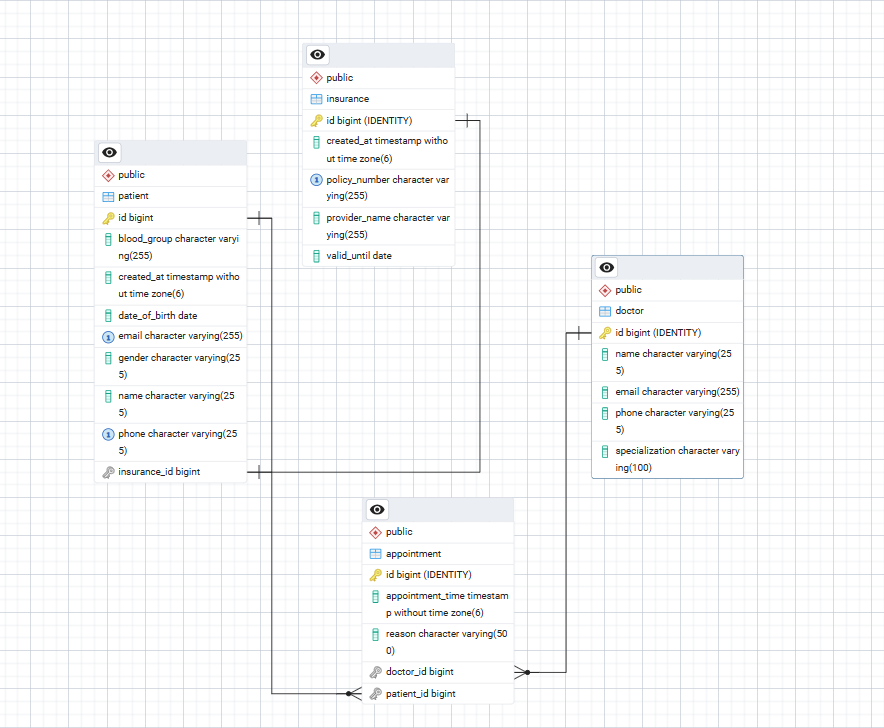
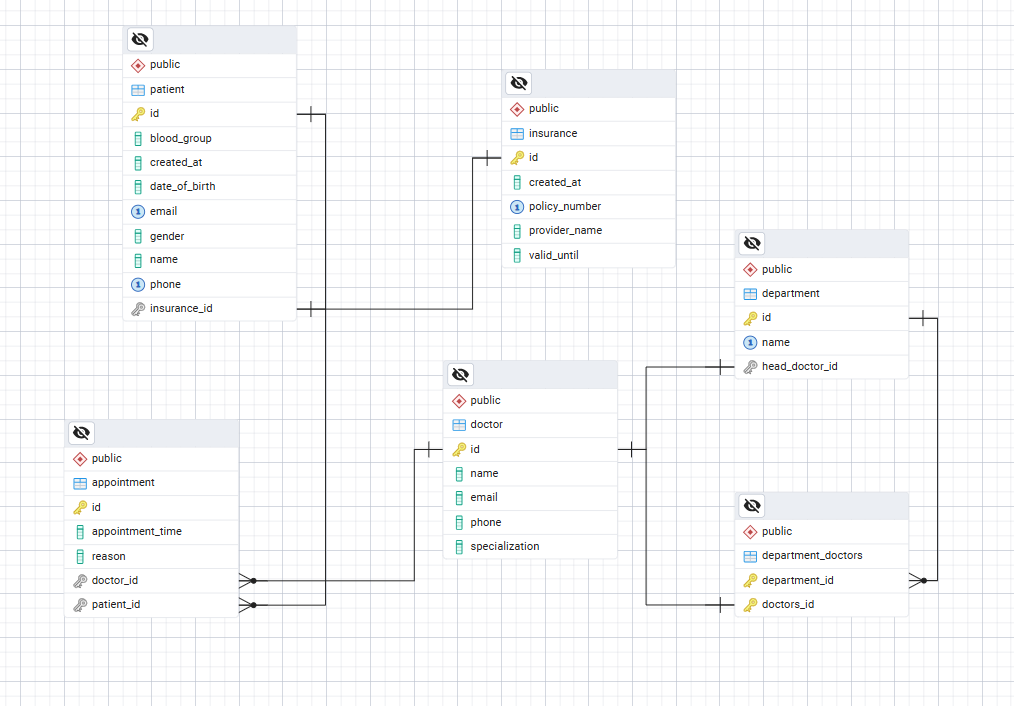
created controllers for doing basic operations

diff --git a/src/main/java/com/rabibanik/hospitalManagementSystem/service/AppointmentService.java b/src/main/java/com/rabibanik/hospitalManagementSystem/service/AppointmentService.java
@@ -1,0 +1,41 @@
+package com.rabibanik.hospitalManagementSystem.service;
+
+import com.rabibanik.hospitalManagementSystem.entity.Appointment;
+import com.rabibanik.hospitalManagementSystem.entity.Doctor;
+import com.rabibanik.hospitalManagementSystem.entity.Patient;
+import com.rabibanik.hospitalManagementSystem.repository.AppointmentRepo;
+import com.rabibanik.hospitalManagementSystem.repository.DoctorRepo;
+import com.rabibanik.hospitalManagementSystem.repository.PatientRepo;
+import org.springframework.beans.factory.annotation.Autowired;
+import org.springframework.stereotype.Service;
+import org.springframework.web.bind.annotation.PathVariable;
+import org.springframework.web.bind.annotation.RequestBody;
+
+@Service
+public class AppointmentService {
+
+    @Autowired
+    private PatientRepo patientRepo;
+    @Autowired
+    private DoctorRepo doctorRepo;
+
+    @Autowired
+    private AppointmentRepo appointmentRepo;
+
+    public void createAppointment(Appointment appointment, long doctorId, long patientId){
+
+        Patient patient = patientRepo.findById(patientId).orElseThrow();
+        Doctor doctor = doctorRepo.findById(doctorId).orElseThrow();
+
+        appointment.setDoctor(doctor);
+        appointment.setPatient(patient);
+
+        appointmentRepo.save(appointment);
+    }
+
+    public Appointment getAppointmentDetails(long id){
+
+        return appointmentRepo.findById(id).orElseThrow();
+    }
+
+}

diff --git a/src/main/java/com/rabibanik/hospitalManagementSystem/service/InsuranceService.java b/src/main/java/com/rabibanik/hospitalManagementSystem/service/InsuranceService.java
@@ -1,0 +1,30 @@
+package com.rabibanik.hospitalManagementSystem.service;
+
+import com.rabibanik.hospitalManagementSystem.entity.Insurance;
+import com.rabibanik.hospitalManagementSystem.entity.Patient;
+import com.rabibanik.hospitalManagementSystem.repository.InsuranceRepo;
+import com.rabibanik.hospitalManagementSystem.repository.PatientRepo;
+import jakarta.persistence.EntityNotFoundException;
+import lombok.RequiredArgsConstructor;
+import org.springframework.beans.factory.annotation.Autowired;
+import org.springframework.stereotype.Service;
+
+@Service
+@RequiredArgsConstructor
+public class InsuranceService {
+
+    @Autowired
+    private PatientRepo patientRepo;
+    @Autowired
+    private InsuranceRepo insuranceRepo;
+
+    public void addPatientInsurance(long patientId, Insurance insurance){
+        Patient patient = patientRepo.findById(patientId).
+                orElseThrow(() -> new EntityNotFoundException("Patient not found with this id :" + patientId));
+
+        patient.setInsurance(insurance);
+
+        patientRepo.save(patient);
+    }
+
+}

diff --git a/src/main/java/com/rabibanik/hospitalManagementSystem/controller/AppointmentController.java b/src/main/java/com/rabibanik/hospitalManagementSystem/controller/AppointmentController.java
@@ -1,0 +1,27 @@
+package com.rabibanik.hospitalManagementSystem.controller;
+
+import com.rabibanik.hospitalManagementSystem.entity.Appointment;
+import com.rabibanik.hospitalManagementSystem.service.AppointmentService;
+import com.rabibanik.hospitalManagementSystem.service.PatientService;
+import org.springframework.beans.factory.annotation.Autowired;
+import org.springframework.web.bind.annotation.*;
+
+@RestController
+@RequestMapping("/appointment")
+public class AppointmentController {
+
+    @Autowired
+    private AppointmentService appointmentService;
+
+    @PostMapping("/add/{doctorId}")
+    public void createAppointment(@RequestBody Appointment appointment, @PathVariable("doctorId") long doctorId, @RequestParam("patientId") long patientId){
+
+       appointmentService.createAppointment(appointment,doctorId, patientId);
+    }
+
+    @GetMapping("get/{appointmentId}")
+    public Appointment getAppointmentById(@PathVariable("appointmentId") long id){
+
+        return appointmentService.getAppointmentDetails(id);
+    }
+}

diff --git a/src/main/java/com/rabibanik/hospitalManagementSystem/service/PatientService.java b/src/main/java/com/rabibanik/hospitalManagementSystem/service/PatientService.java
@@ -3,6 +3,7 @@ package com.rabibanik.hospitalManagementSystem.service;
 import com.rabibanik.hospitalManagementSystem.entity.Patient;
 import com.rabibanik.hospitalManagementSystem.repository.PatientRepo;
 import com.rabibanik.hospitalManagementSystem.type.BloodGroupType;
+import jakarta.transaction.Transactional;
 import org.springframework.beans.factory.annotation.Autowired;
 import org.springframework.stereotype.Service;
 
@@ -24,5 +25,13 @@ public class PatientService {
 
     public List<Patient> findPatientWithBloodGroup(BloodGroupType bloodGroupType){
         return patientRepo.findAllPatientWithBloodGroup(bloodGroupType);
+    }
+
+    @Transactional
+    public void removePatientInsurance(long id){
+
+        Patient patient = patientRepo.findById(id).orElseThrow();
+
+        patient.setInsurance(null);
     }
 }

diff --git a/src/main/java/com/rabibanik/hospitalManagementSystem/controller/DoctorController.java b/src/main/java/com/rabibanik/hospitalManagementSystem/controller/DoctorController.java
@@ -1,0 +1,22 @@
+package com.rabibanik.hospitalManagementSystem.controller;
+
+import com.rabibanik.hospitalManagementSystem.entity.Doctor;
+import com.rabibanik.hospitalManagementSystem.service.DoctorService;
+import org.springframework.beans.factory.annotation.Autowired;
+import org.springframework.web.bind.annotation.PostMapping;
+import org.springframework.web.bind.annotation.RequestBody;
+import org.springframework.web.bind.annotation.RequestMapping;
+import org.springframework.web.bind.annotation.RestController;
+
+@RestController
+@RequestMapping("/doctor")
+public class DoctorController {
+
+    @Autowired
+    private DoctorService doctorService;
+
+    @PostMapping("/add")
+    public void addDoctor(@RequestBody Doctor doctor){
+        doctorService.createdoctor(doctor);
+    }
+}

diff --git a/src/main/java/com/rabibanik/hospitalManagementSystem/controller/InsuranceController.java b/src/main/java/com/rabibanik/hospitalManagementSystem/controller/InsuranceController.java
@@ -1,0 +1,21 @@
+package com.rabibanik.hospitalManagementSystem.controller;
+
+
+import com.rabibanik.hospitalManagementSystem.entity.Insurance;
+import com.rabibanik.hospitalManagementSystem.service.InsuranceService;
+import org.springframework.beans.factory.annotation.Autowired;
+import org.springframework.web.bind.annotation.*;
+
+@RestController
+@RequestMapping("/insurance")
+public class InsuranceController {
+
+    @Autowired
+    private InsuranceService insuranceService;
+
+    @PostMapping("/add/{id}")
+    public void addInsuranceToPatient(@PathVariable("id") long patientId,@RequestBody Insurance insurance){
+        insuranceService.addPatientInsurance(patientId, insurance);
+    }
+
+}

diff --git a/src/main/java/com/rabibanik/hospitalManagementSystem/entity/Department.java b/src/main/java/com/rabibanik/hospitalManagementSystem/entity/Department.java
@@ -1,0 +1,29 @@
+package com.rabibanik.hospitalManagementSystem.entity;
+
+import jakarta.persistence.*;
+import lombok.Getter;
+import lombok.NoArgsConstructor;
+import lombok.Setter;
+
+import java.util.HashSet;
+import java.util.Set;
+
+@Entity
+@Getter
+@Setter
+@NoArgsConstructor
+public class Department {
+
+    @Id
+    @GeneratedValue(strategy = GenerationType.IDENTITY)
+    private long id;
+
+    @Column(nullable = false, unique = true)
+    private String name;
+
+    @OneToOne
+    private Doctor headDoctor;
+
+    @OneToMany
+    private Set<Doctor> doctors = new HashSet<>();
+}

diff --git a/src/main/java/com/rabibanik/hospitalManagementSystem/service/DoctorService.java b/src/main/java/com/rabibanik/hospitalManagementSystem/service/DoctorService.java
@@ -1,0 +1,18 @@
+package com.rabibanik.hospitalManagementSystem.service;
+
+import com.rabibanik.hospitalManagementSystem.entity.Doctor;
+import com.rabibanik.hospitalManagementSystem.repository.DoctorRepo;
+import org.springframework.beans.factory.annotation.Autowired;
+import org.springframework.stereotype.Service;
+
+@Service
+public class DoctorService {
+
+    @Autowired
+    private DoctorRepo doctorRepo;
+
+    public void createdoctor(Doctor doctor){
+        doctorRepo.save(doctor);
+    }
+
+}

diff --git a/src/main/java/com/rabibanik/hospitalManagementSystem/entity/Patient.java b/src/main/java/com/rabibanik/hospitalManagementSystem/entity/Patient.java
@@ -36,7 +36,7 @@ public class Patient {
     @Enumerated(EnumType.STRING)
     private BloodGroupType bloodGroup;
 
-    @OneToOne
+    @OneToOne(cascade = {CascadeType.MERGE, CascadeType.PERSIST}, orphanRemoval = true)  //orphanRemoval this will remove the insuance from insurance table also
     private Insurance insurance;    // FK for insurance
 
     @CreationTimestamp

diff --git a/src/main/java/com/rabibanik/hospitalManagementSystem/repository/AppointmentRepo.java b/src/main/java/com/rabibanik/hospitalManagementSystem/repository/AppointmentRepo.java
@@ -1,0 +1,9 @@
+package com.rabibanik.hospitalManagementSystem.repository;
+
+import com.rabibanik.hospitalManagementSystem.entity.Appointment;
+import org.springframework.data.jpa.repository.JpaRepository;
+import org.springframework.stereotype.Repository;
+
+@Repository
+public interface AppointmentRepo extends JpaRepository<Appointment, Long> {
+}

diff --git a/src/main/java/com/rabibanik/hospitalManagementSystem/repository/DepartmentRepo.java b/src/main/java/com/rabibanik/hospitalManagementSystem/repository/DepartmentRepo.java
@@ -1,0 +1,9 @@
+package com.rabibanik.hospitalManagementSystem.repository;
+
+import com.rabibanik.hospitalManagementSystem.entity.Department;
+import org.springframework.data.jpa.repository.JpaRepository;
+import org.springframework.stereotype.Repository;
+
+@Repository
+public interface DepartmentRepo extends JpaRepository<Department, Long> {
+}

diff --git a/src/main/java/com/rabibanik/hospitalManagementSystem/entity/Appointment.java b/src/main/java/com/rabibanik/hospitalManagementSystem/entity/Appointment.java
@@ -27,6 +27,7 @@ public class Appointment {
     @JoinColumn(nullable = false)
     private Doctor doctor;
 
+//    @ManyToOne(cascade = CascadeType.PERSIST)   // not here specify in patient otherwise when u delete the appointment it tries to delete the patient also
     @ManyToOne
     @JoinColumn(nullable = false)
     private Patient patient;
